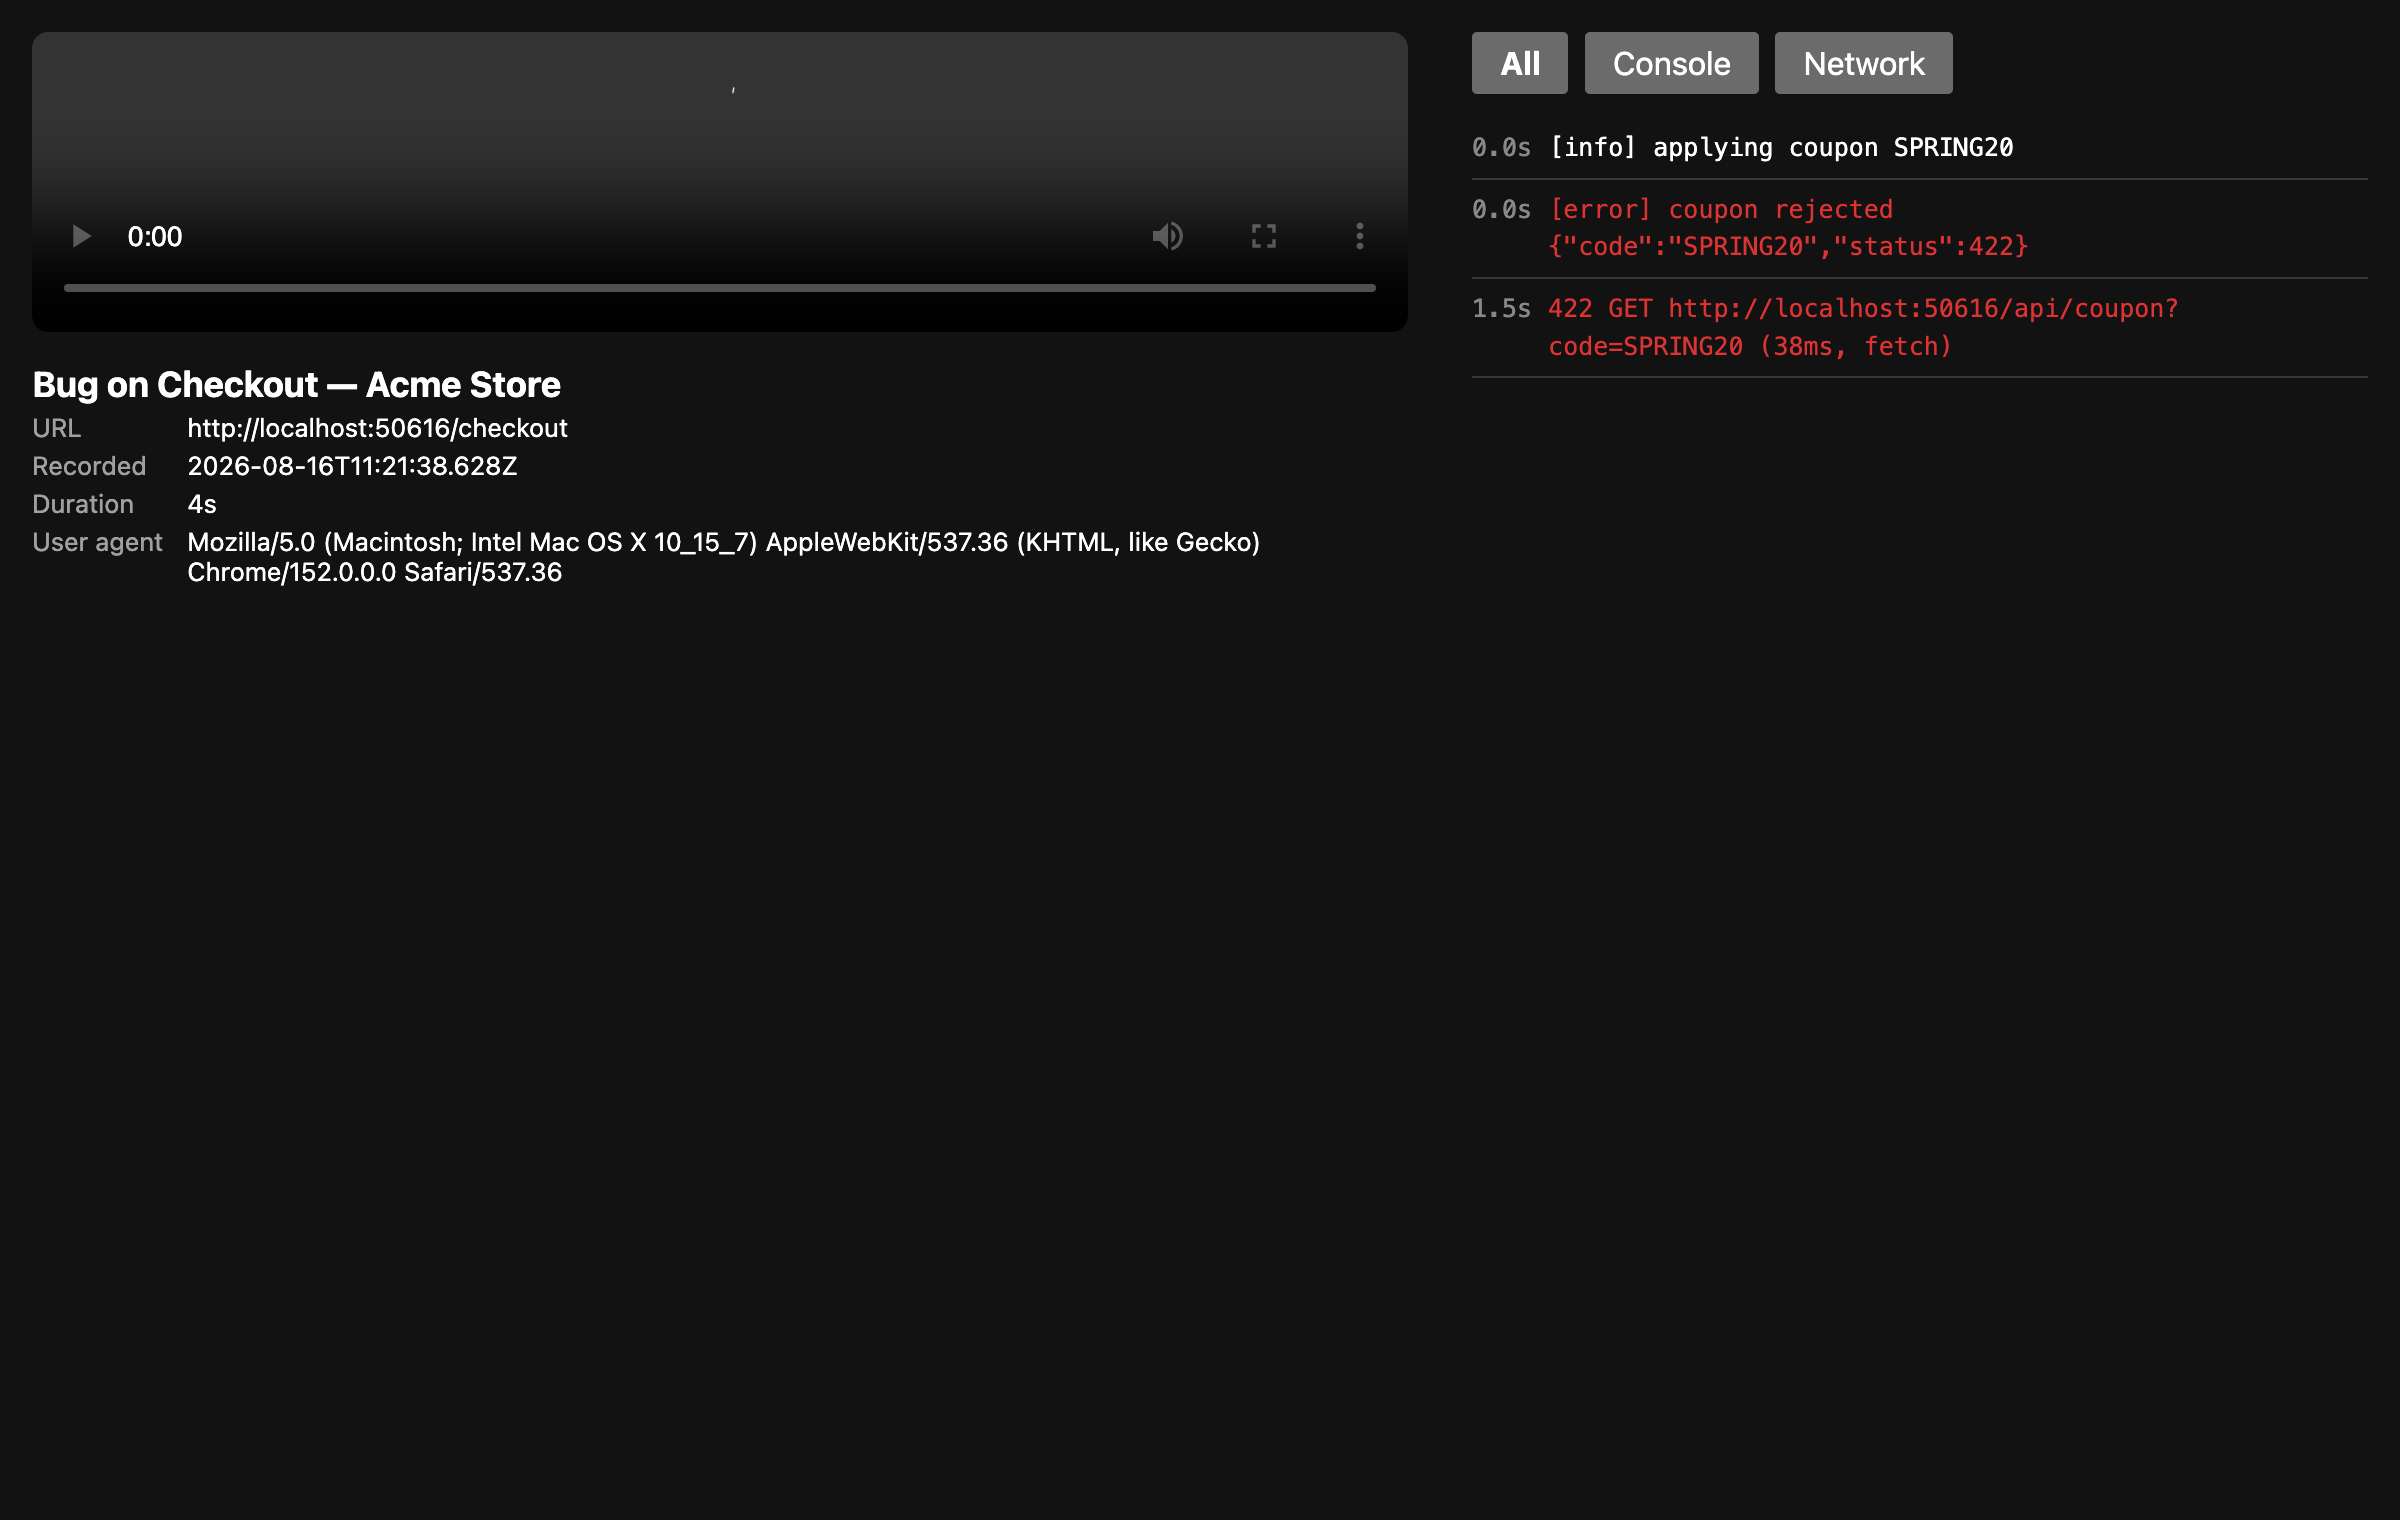
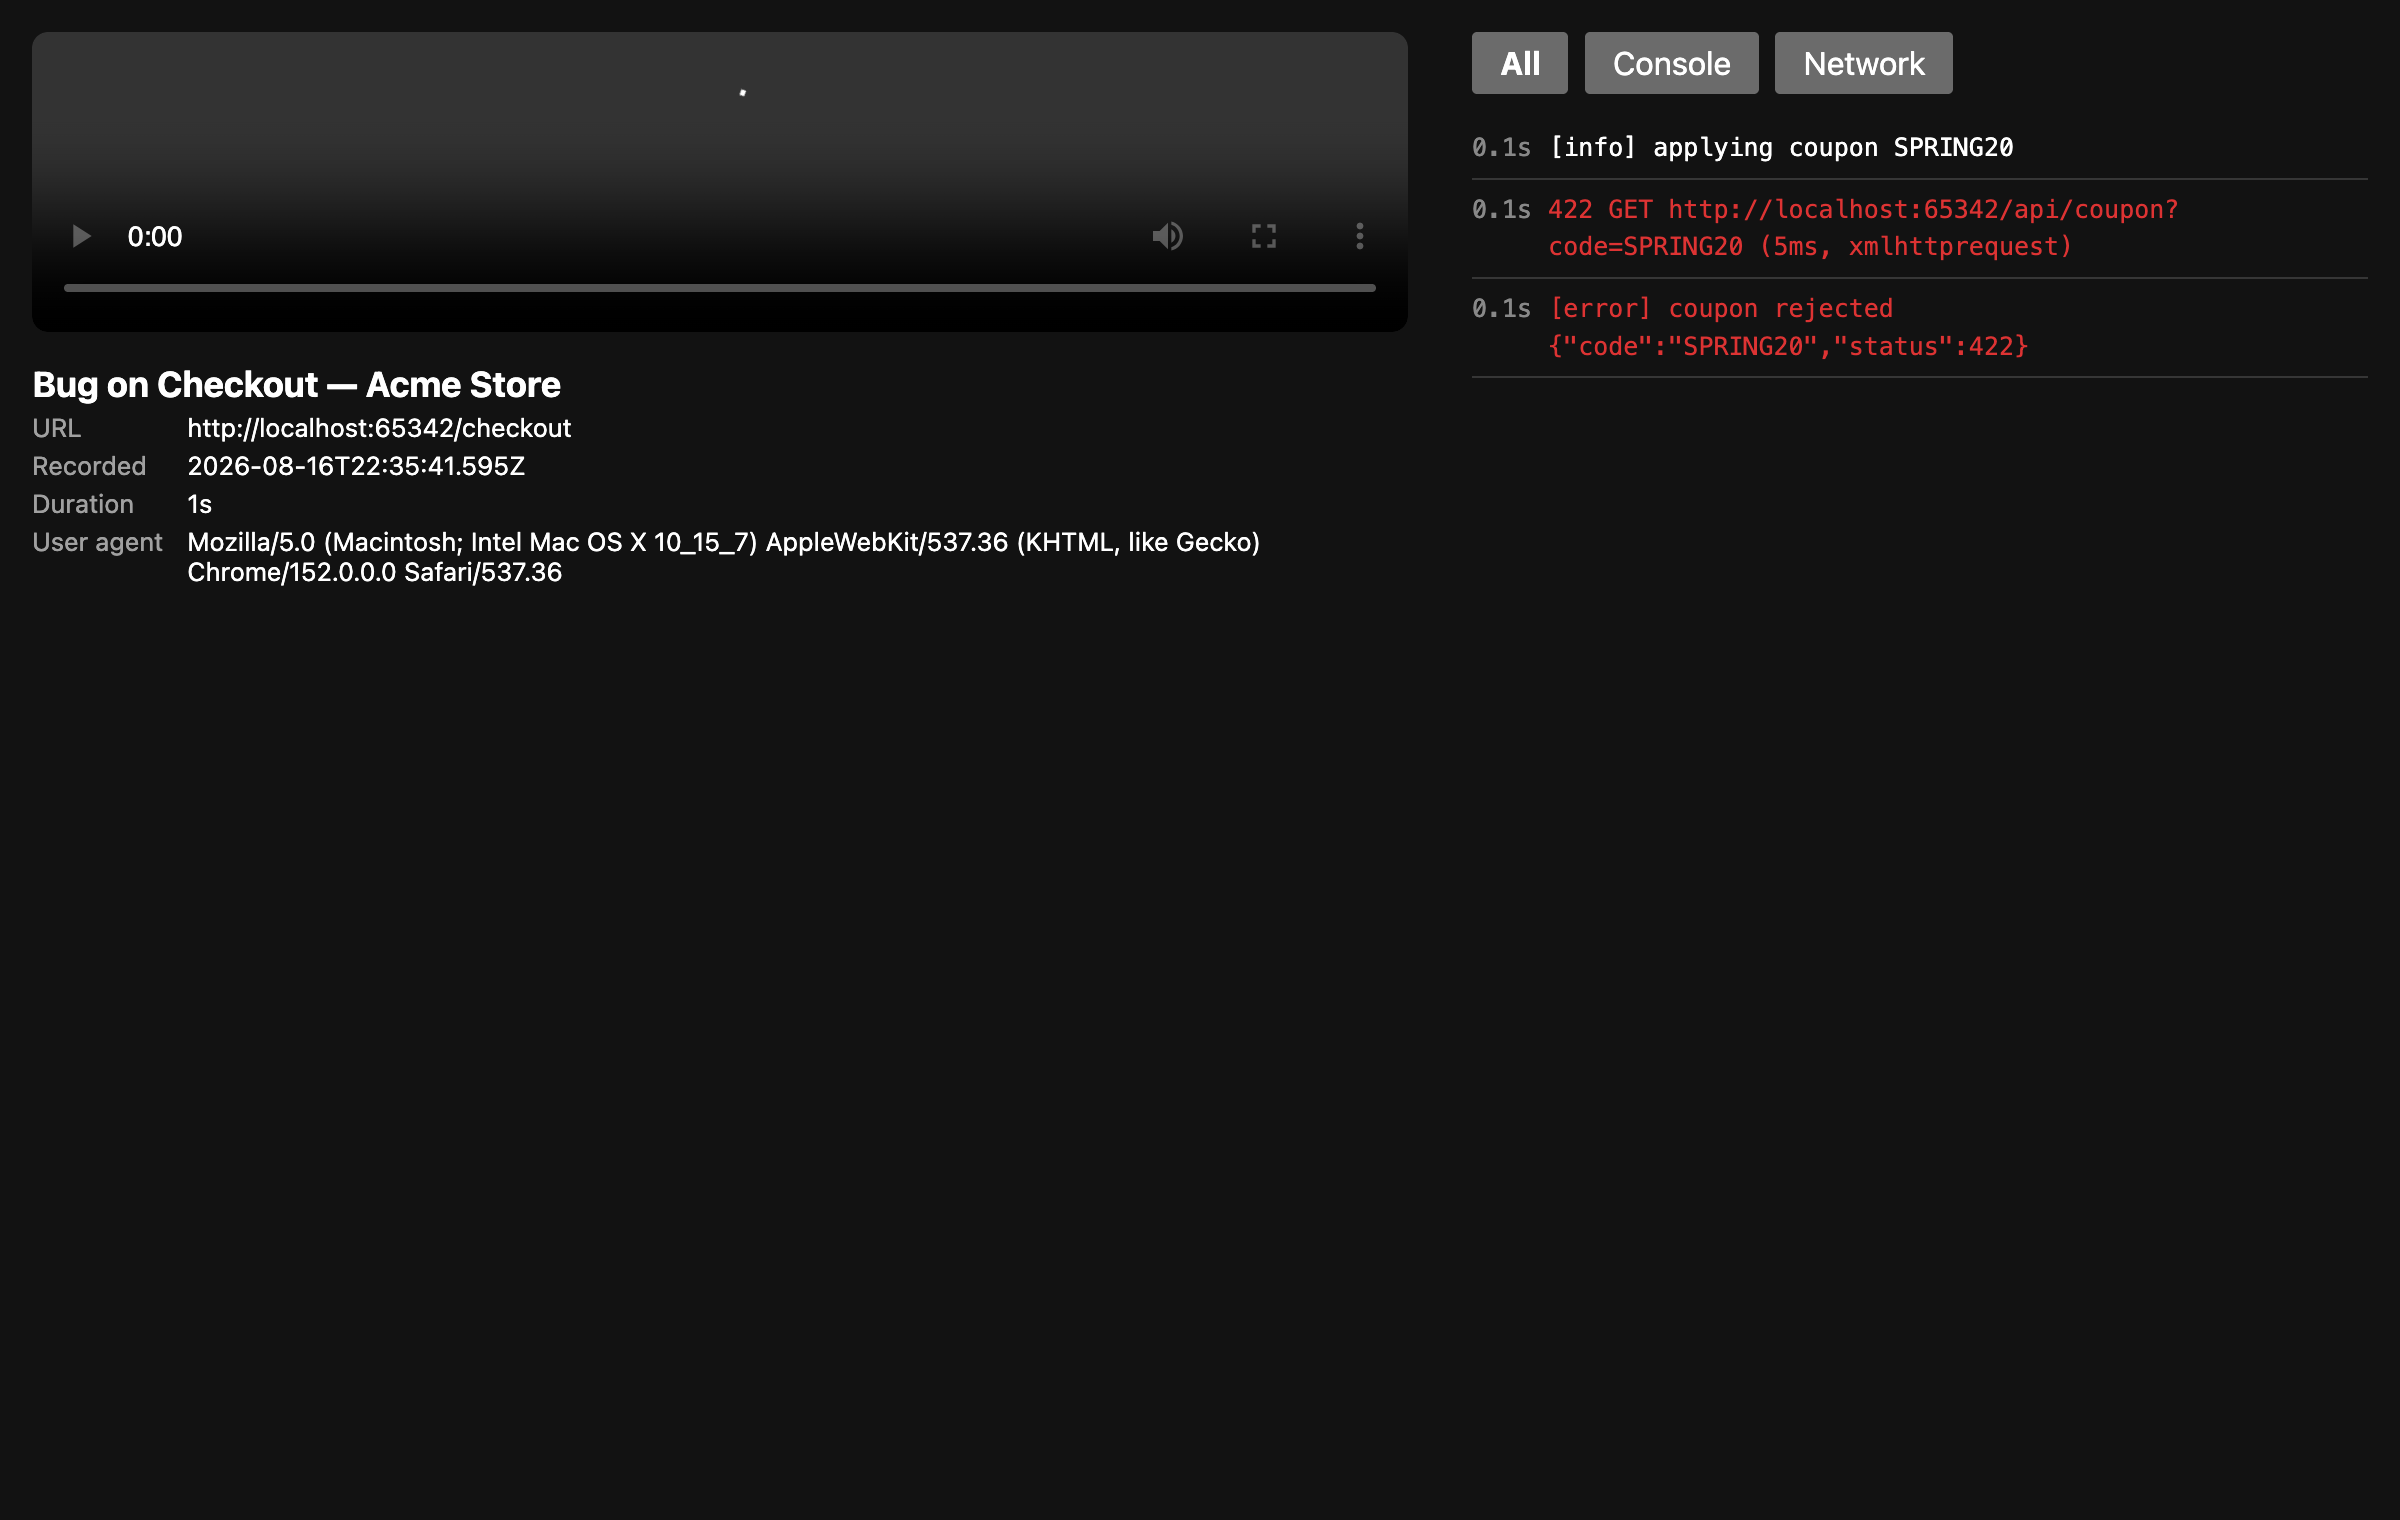
fix: collect the evidence network entries for real, and stop evidence hanging
- bench/evidence.mjs claimed nothing was mocked up while appending a
  hand-written 422 row with invented timings. Network entries are now read
  from chrome.webRequest with the same per-tab filter background.js uses, so
  every row in the report is observed: real status, duration and resource type
- Wrap the whole evidence flow in try/finally; any failure after launch left a
  headful Chrome and the fixture server holding the event loop open
- Guard browser.close() in the e2e harness and idle-cost so a failing close
  cannot skip the server close
- Add type="button" to the report's filter buttons in the template
- Assert a failed stop closes the offscreen document
- Fix a garbled comment in stop(), document the ffmpeg prerequisite

Changed region(s): [[0.625, 0.1237, 0.9062, 0.2474], [0.1562, 0.2783, 0.25, 0.3092]]

diff --git a/docs/evidence/report.html b/docs/evidence/report.html
@@ -24,21 +24,21 @@
   <video controls src=""></video>
   <h1>Bug on Checkout — Acme Store</h1>
   <dl>
-    <dt>URL</dt><dd>http://localhost:50616/checkout</dd>
-    <dt>Recorded</dt><dd>2026-08-16T11:21:38.628Z</dd>
-    <dt>Duration</dt><dd>4s</dd>
+    <dt>URL</dt><dd>http://localhost:65342/checkout</dd>
+    <dt>Recorded</dt><dd>2026-08-16T22:35:41.595Z</dd>
+    <dt>Duration</dt><dd>1s</dd>
     <dt>User agent</dt><dd>Mozilla/5.0 (Macintosh; Intel Mac OS X 10_15_7) AppleWebKit/537.36 (KHTML, like Gecko) Chrome/152.0.0.0 Safari/537.36</dd>
   </dl>
 </section>
 <section>
   <nav>
-    <button data-filter="all" aria-pressed="true">All</button>
-    <button data-filter="console" aria-pressed="false">Console</button>
-    <button data-filter="network" aria-pressed="false">Network</button>
+    <button type="button" data-filter="all" aria-pressed="true">All</button>
+    <button type="button" data-filter="console" aria-pressed="false">Console</button>
+    <button type="button" data-filter="network" aria-pressed="false">Network</button>
   </nav>
   <ul id="entries"></ul>
 </section>
-<script id="data" type="application/json">{"description":"Bug on Checkout — Acme Store","url":"http://localhost:50616/checkout","startedAt":1786879298628,"durationMs":4200,"userAgent":"Mozilla/5.0 (Macintosh; Intel Mac OS X 10_15_7) AppleWebKit/537.36 (KHTML, like Gecko) Chrome/152.0.0.0 Safari/537.36","video":"","entries":[{"kind":"console","level":"info","text":"applying coupon SPRING20","t":1786879298642,"at":14},{"kind":"console","level":"error","text":"coupon rejected {\"code\":\"SPRING20\",\"status\":422}","t":1786879298650,"at":22},{"kind":"network","method":"GET","url":"http://localhost:50616/api/coupon?code=SPRING20","resourceType":"fetch","status":422,"durationMs":38,"at":1500}]}</script>
+<script id="data" type="application/json">{"description":"Bug on Checkout — Acme Store","url":"http://localhost:65342/checkout","startedAt":1786919741595,"durationMs":990,"userAgent":"Mozilla/5.0 (Macintosh; Intel Mac OS X 10_15_7) AppleWebKit/537.36 (KHTML, like Gecko) Chrome/152.0.0.0 Safari/537.36","video":"","entries":[{"kind":"console","level":"info","text":"applying coupon SPRING20","t":1786919741652,"at":57},{"kind":"network","t":1786919741654.862,"method":"GET","url":"http://localhost:65342/api/coupon?code=SPRING20","resourceType":"xmlhttprequest","status":422,"durationMs":5,"at":59.862060546875},{"kind":"console","level":"error","text":"coupon rejected {\"code\":\"SPRING20\",\"status\":422}","t":1786919741661,"at":66}]}</script>
 <script>
   const entries = JSON.parse(document.getElementById('data').textContent).entries || [];
   const list = document.getElementById('entries');

diff --git a/extension/report.js b/extension/report.js
@@ -37,9 +37,9 @@ function buildReport(data) {
 </section>
 <section>
   <nav>
-    <button data-filter="all" aria-pressed="true">All</button>
-    <button data-filter="console" aria-pressed="false">Console</button>
-    <button data-filter="network" aria-pressed="false">Network</button>
+    <button type="button" data-filter="all" aria-pressed="true">All</button>
+    <button type="button" data-filter="console" aria-pressed="false">Console</button>
+    <button type="button" data-filter="network" aria-pressed="false">Network</button>
   </nav>
   <ul id="entries"></ul>
 </section>

diff --git a/extension/background.js b/extension/background.js
@@ -175,8 +175,8 @@ async function stop(description) {
     });
   } catch (e) {
     // Normally 'recording-ended' releases the session once the report is saved.
-    // If the offscreen document never answers that never arrives, leaving the
-    // listeners attached to every page and blocking the next start.
+    // If the offscreen document never answers, that message never arrives, so
+    // the listeners stay attached to every page and no later start can work.
     release();
     await chrome.offscreen.closeDocument().catch(() => {});
     throw e;

diff --git a/test/background.test.js b/test/background.test.js
@@ -219,6 +219,8 @@ test('a failed stop releases the session instead of stranding the listeners', as
   assert.deepStrictEqual(Object.values(bg.attached).filter(Boolean), [],
     'a failed stop must not leave listeners on every page');
   assert.deepStrictEqual(bg.capture.at(-1), { tabId: 7, on: false });
+  assert.strictEqual(bg.closeDocumentCalls.length, 1,
+    'a failed stop must close the offscreen document too');
 });
 
 test('a name edited in the popup replaces the generated one', async () => {

diff --git a/README.md b/README.md
@@ -43,6 +43,7 @@ the video, so a log line at `3.4s` is the one that fired at `3.4s` in the player
 | `npm run e2e:setup` | Download Chrome for Testing 152.0.7977.42 (once, before `test:e2e`) |
 | `npm run test:e2e` | Run the browser tests against a really-installed extension |
 | `npm run bench` | Measure what the extension costs while idle (needs `e2e:setup` too) |
+| `npm run evidence` | Regenerate `docs/evidence/` (needs `e2e:setup` and `ffmpeg` on PATH) |
 | `npm run lint` | Run ESLint |
 
 ## Architecture
